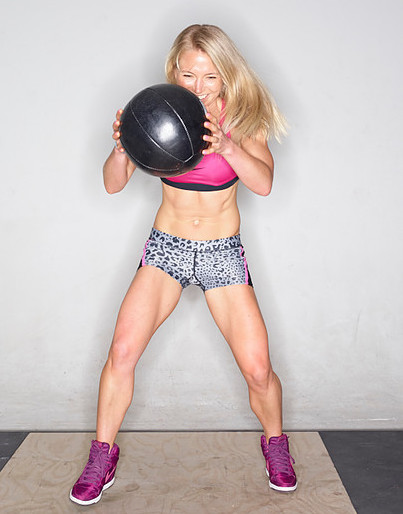
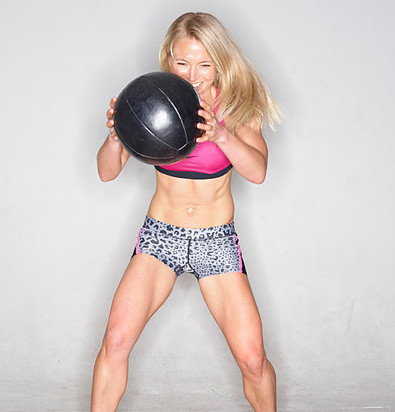
private sessions ok

diff --git a/src/PrivateSessionsDescription.js b/src/PrivateSessionsDescription.js
@@ -7,14 +7,13 @@ class PrivateSessionsDescription extends Component {
   render() {
     return (
       
-      <div>
+      <div className="PrivateDescr">
           
-          <h1>PRIVATE SESSIONS WITH KILLER</h1>
-          <p>Private sessions run for 50 minutes and are taloried specifically to what you would like to achieve.  Each session will contain exercisers to help you achieve your goals and also will suit any conditions physically and mentally; eg. we can do another exercise with the same amount of benefit that you will enjoy.  
-We can do measurements, look at posturel issues, set goals, before and after shots.
-The session will never be boring or repeatative and you will see weekly improvements.
-Private sessions include 1:1, 1:2, 1:3 and if you would like to organise 4+ group private sessions this can be arranged as well.
-To book in Private Session with Killer email killer@killerjules.com</p>
+          <p><span>P</span>rivate sessions run for 50 minutes and are taloried specifically to what you would like to achieve.  Each session will contain exercisers to help you achieve your goals and also will suit any conditions physically and mentally; eg. we can do another exercise with the same amount of benefit that you will enjoy.</p>  
+          <p><span>W</span>e can do measurements, look at posturel issues, set goals, before and after shots.
+          The session will never be boring or repeatative and you will see weekly improvements.
+          Private sessions include 1:1, 1:2, 1:3 and if you would like to organise 4+ group private sessions this can be arranged as well.</p>
+          <p><span>T</span>o book in Private Session with Killer email killer@killerjules.com</p>
 
       </div>
     

diff --git a/src/PrivateSessionsGallery.js b/src/PrivateSessionsGallery.js
@@ -6,9 +6,20 @@ import './PrivateSessionsPage.css';
 class PrivateSessionsGallery extends Component {
   render() {
     return (
-      <div>
-          <img src="https://static.wixstatic.com/media/19c007_cfbd3c11be954e26a73f504bcbf813f6.jpg/v1/fill/w_412,h_551,al_c,q_90,usm_0.66_1.00_0.01/19c007_cfbd3c11be954e26a73f504bcbf813f6.jpg"/>
-          <img src="https://static.wixstatic.com/media/19c007_6bd37bf9b5a1446fb1568ff3a3c05489.jpg/v1/fill/w_207,h_279,al_c,q_80,usm_0.66_1.00_0.01/19c007_6bd37bf9b5a1446fb1568ff3a3c05489.jpg"/>
+      <div className="PrivateGalleryDiv">
+
+          <img className = "pGallery" src={require('./gallery/p1.png')} />
+          <img className = "pGallery" src={require('./gallery/p4.png')} />
+          <img className = "pGallery" src={require('./gallery/p3.png')} />
+
+          <img className = "pGallery" src={require('./gallery/p9.jpg')} />
+          <img className = "pGallery" src={require('./gallery/p7.png')} />
+          <img className = "pGallery" src={require('./gallery/p6.png')} />
+
+          <img className = "pGallery" src={require('./gallery/p5.png')} />
+          <img className = "pGallery" src={require('./gallery/p2.png')} />
+          <img className = "pGallery" src={require('./gallery/p8.jpg')} />
+          
       </div>
     );
   }

diff --git a/src/PrivateSessionsPage.js b/src/PrivateSessionsPage.js
@@ -1,8 +1,8 @@
 import React, { Component } from 'react';
 import './PrivateSessionsPage.css';
 
-import PrivateSessionsDescription from './PrivateSessionsDescription';
 import PrivateSessionsGallery from './PrivateSessionsGallery';
+import PrivateSessionsDescription from './PrivateSessionsDescription';
 
 
 
@@ -12,9 +12,11 @@ class PrivateSessionsPage extends Component {
     return (
       
       <div className="PrivateKillerWrapper">
+
+          <h1>PRIVATE SESSIONS WITH KILLER</h1>
           
-          <PrivateSessionsDescription />
           <PrivateSessionsGallery />
+          <PrivateSessionsDescription />
 
       </div>
     

diff --git a/src/PrivateSessionsPage.css b/src/PrivateSessionsPage.css
@@ -5,3 +5,37 @@
   margin: 0;
   padding: 0;
 }
+
+.PrivateDescr {
+  width: 30%;
+  display: inline-block;
+  text-align: left;
+  margin-right: 10%;
+  padding-top: 3%;
+  float: right;
+  /*background-color: white;*/
+}
+
+.PrivateGalleryDiv {
+  display: inline-block;
+  width: 43%;
+  /*height: 50%;*/
+  /*background-color: #d3d3d3;*/
+  padding: 1% 5% 0 0;
+  margin: 0 0 10% 0;
+  /*border: 2px solid white;*/
+}
+
+.pGallery {
+  width: 30%;
+  /*height: 30%;*/
+  /*margin-left: 1%;*/
+  /*margin-bottom: 1%;*/
+  margin: 1%;
+}
+
+.pGallery:hover {
+  opacity: 0.9;
+  border: 1px solid white;
+  /*width: 100%;*/
+}
